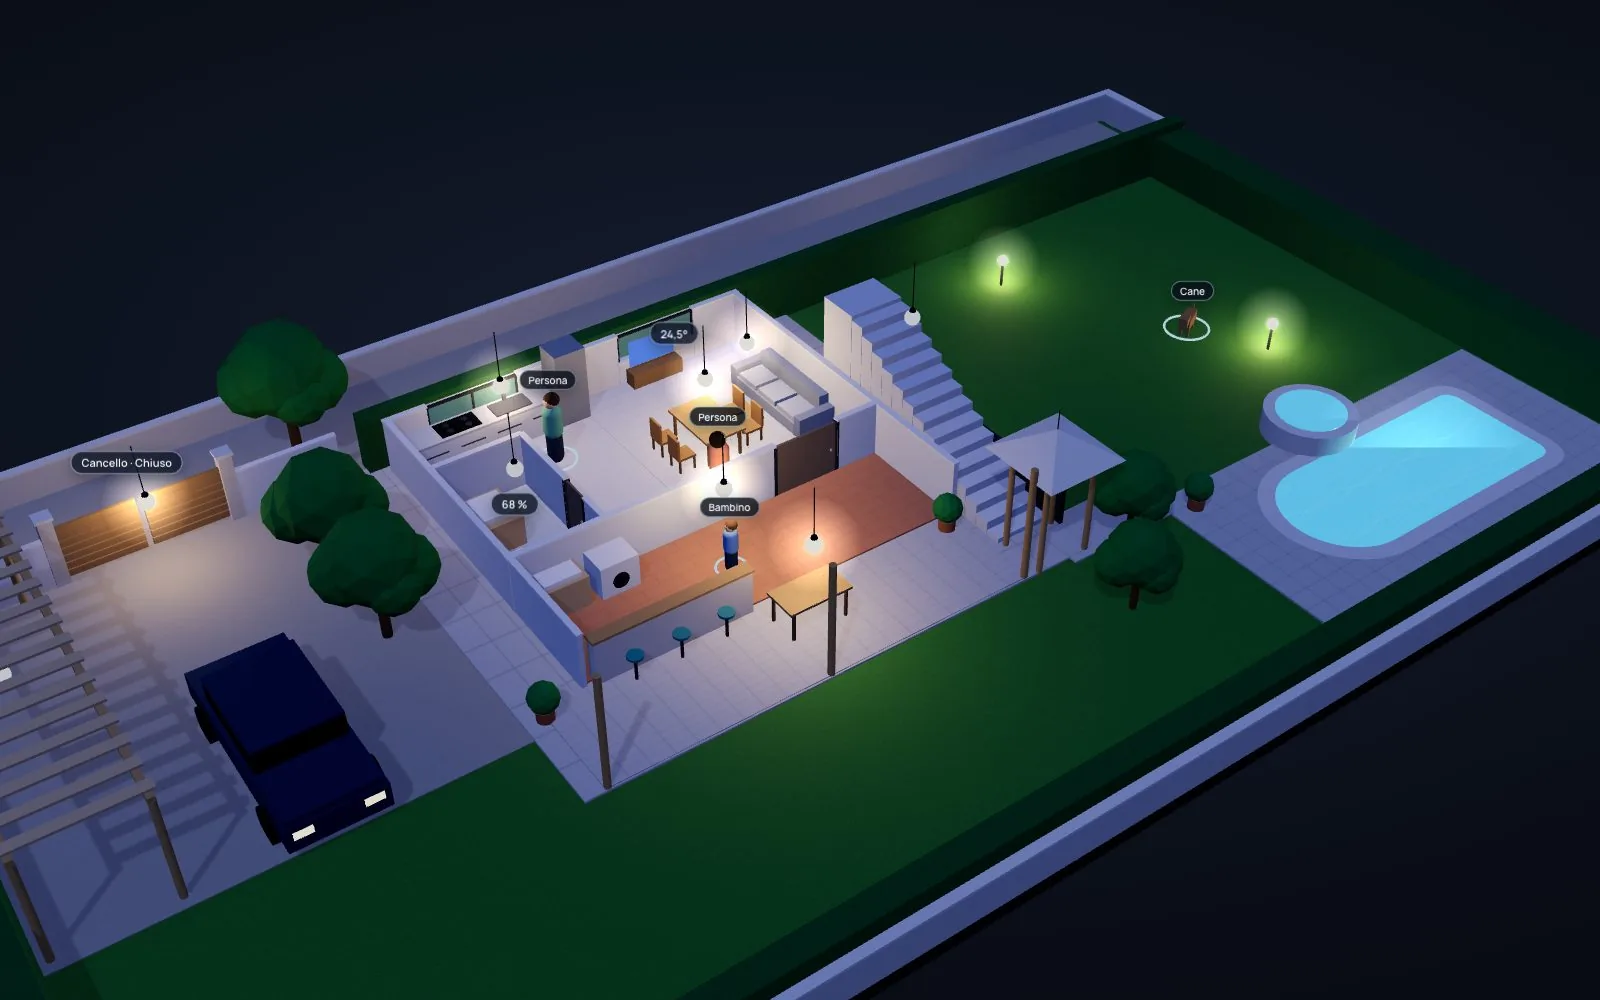
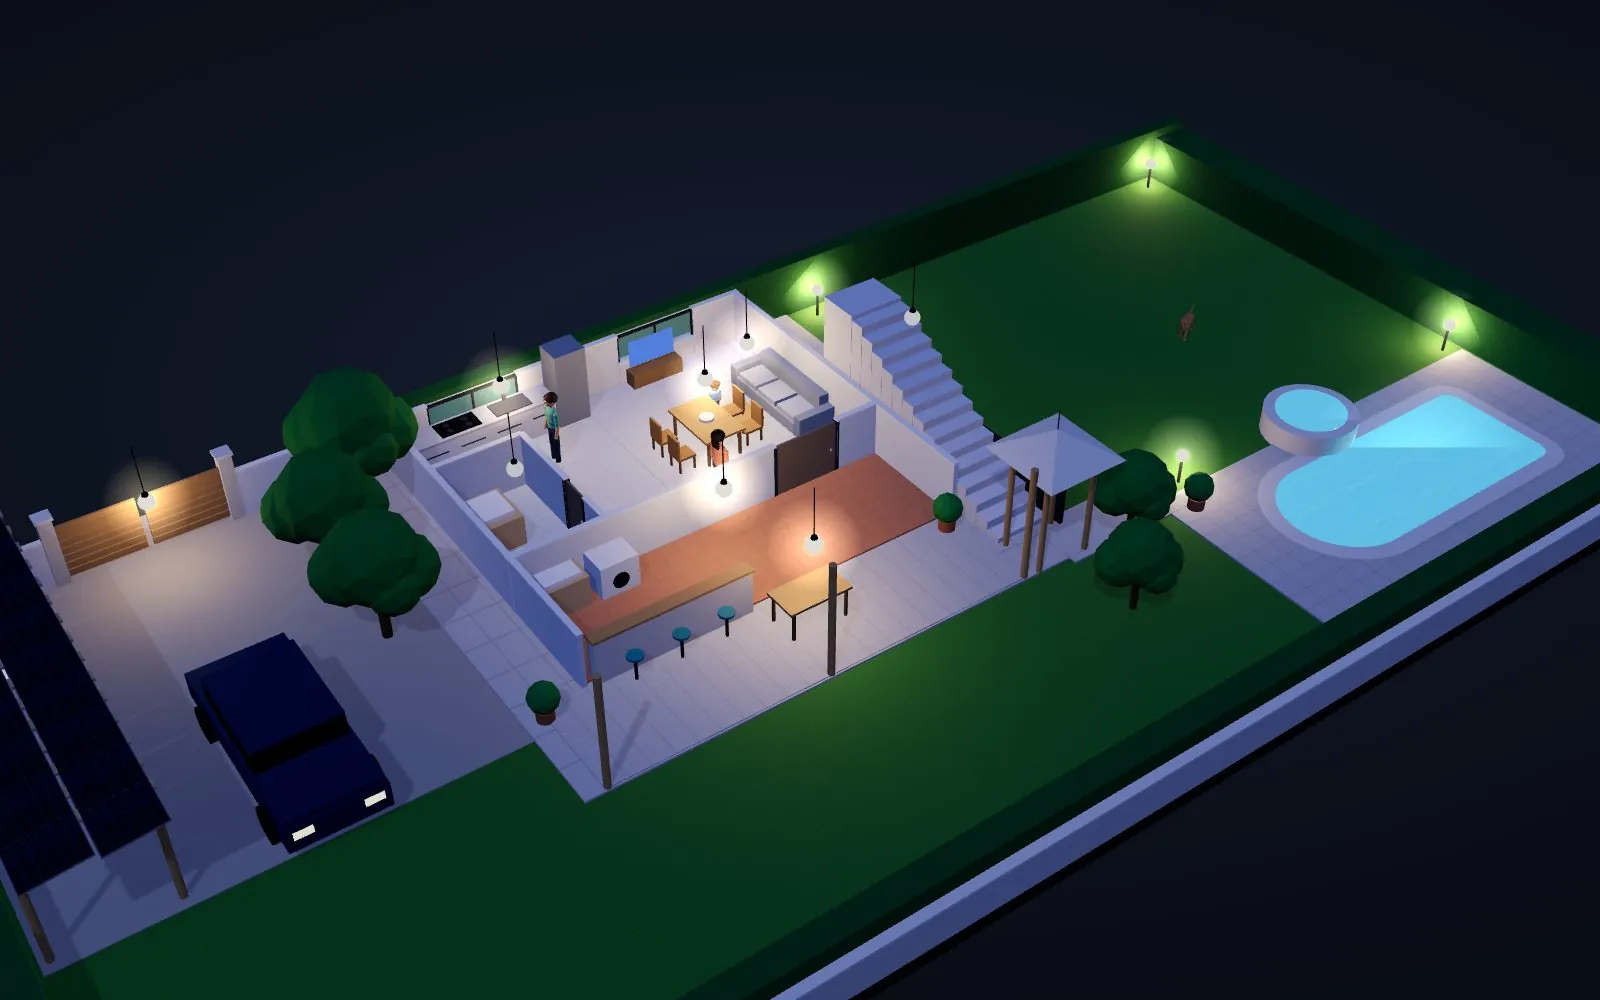
Accueil : images refaites avec les nouveaux personnages, scénario de la piscine

diff --git a/site/accueil.html b/site/accueil.html
@@ -7,11 +7,11 @@
   <link rel="canonical" href="https://bonaparks.com/">
   <title>Parks 3D · Votre maison. Vivante.</title>
   <meta name="description" content="Pilotez les lumières, les volets, le portail et les caméras depuis une vue 3D de votre maison. L’app Bonaparks pour iPhone et iPad.">
-  <meta property="og:title" content="Parks 3D · Votre maison. Vivante."><meta property="og:type" content="website"><meta property="og:site_name" content="Parks 3D"><meta property="og:image" content="https://bonaparks.com/accueil/hero.webp">
+  <meta property="og:title" content="Parks 3D · Votre maison. Vivante."><meta property="og:type" content="website"><meta property="og:site_name" content="Parks 3D"><meta property="og:image" content="https://bonaparks.com/accueil/hero.webp?v=2">
   <link rel="stylesheet" href="fonts/fonts.css">
   <link rel="stylesheet" href="accueil.css?v=4">
   <link rel="stylesheet" href="i18n.css?v=1"><script type="module" src="i18n.mjs?v=3"></script>
-  <script type="module" src="accueil.mjs?v=4"></script>
+  <script type="module" src="accueil.mjs?v=5"></script>
 </head>
 <body>
 <a class="skip" href="#main">Aller au contenu</a>
@@ -84,17 +84,17 @@
         <li><button role="tab" aria-selected="false" data-shot="intrusion">Caméras</button></li>
         <li><button role="tab" aria-selected="false" data-shot="scenario">Scénarios</button></li>
       </ul>
-      <figure class="closer-shot"><img id="closer-img" src="accueil/lumieres.webp" width="1600" height="1000" loading="lazy" alt=""><figcaption id="closer-text">Une lampe par pièce, commandée d’un geste.</figcaption></figure>
+      <figure class="closer-shot"><img id="closer-img" src="accueil/lumieres.webp?v=2" width="1600" height="1000" loading="lazy" alt=""><figcaption id="closer-text">Une lampe par pièce, commandée d’un geste.</figcaption></figure>
     </div>
   </section>
 
   <section class="places" id="lieux">
     <h2 class="title">Quatre lieux.<br>Une seule app.</h2>
     <div class="grid">
-      <a class="place" href="maison3d.html"><img src="accueil/lieu-maison.webp" width="1600" height="1000" loading="lazy" alt=""><b>Maison</b><small>Une maison de famille, son jardin et sa piscine.</small></a>
-      <a class="place" href="penthouse3d.html"><img src="accueil/lieu-penthouse3d.webp" width="1600" height="1000" loading="lazy" alt=""><b>Résidence</b><small>Un penthouse sur trois niveaux, visité à pied.</small></a>
-      <a class="place" href="business3d.html"><img src="accueil/lieu-business3d.webp" width="1600" height="1000" loading="lazy" alt=""><b>Business</b><small>Un rooftop, ses ambiances et ses accès.</small></a>
-      <a class="place" href="club3d.html"><img src="accueil/lieu-club3d.webp" width="1600" height="1000" loading="lazy" alt=""><b>Club</b><small>Une salle, son plan de tables et sa soirée.</small></a>
+      <a class="place" href="maison3d.html"><img src="accueil/lieu-maison.webp?v=2" width="1600" height="1000" loading="lazy" alt=""><b>Maison</b><small>Une maison de famille, son jardin et sa piscine.</small></a>
+      <a class="place" href="penthouse3d.html"><img src="accueil/lieu-penthouse3d.webp?v=2" width="1600" height="1000" loading="lazy" alt=""><b>Résidence</b><small>Un penthouse sur trois niveaux, visité à pied.</small></a>
+      <a class="place" href="business3d.html"><img src="accueil/lieu-business3d.webp?v=2" width="1600" height="1000" loading="lazy" alt=""><b>Business</b><small>Un rooftop, ses ambiances et ses accès.</small></a>
+      <a class="place" href="club3d.html"><img src="accueil/lieu-club3d.webp?v=2" width="1600" height="1000" loading="lazy" alt=""><b>Club</b><small>Une salle, son plan de tables et sa soirée.</small></a>
     </div>
   </section>
 
